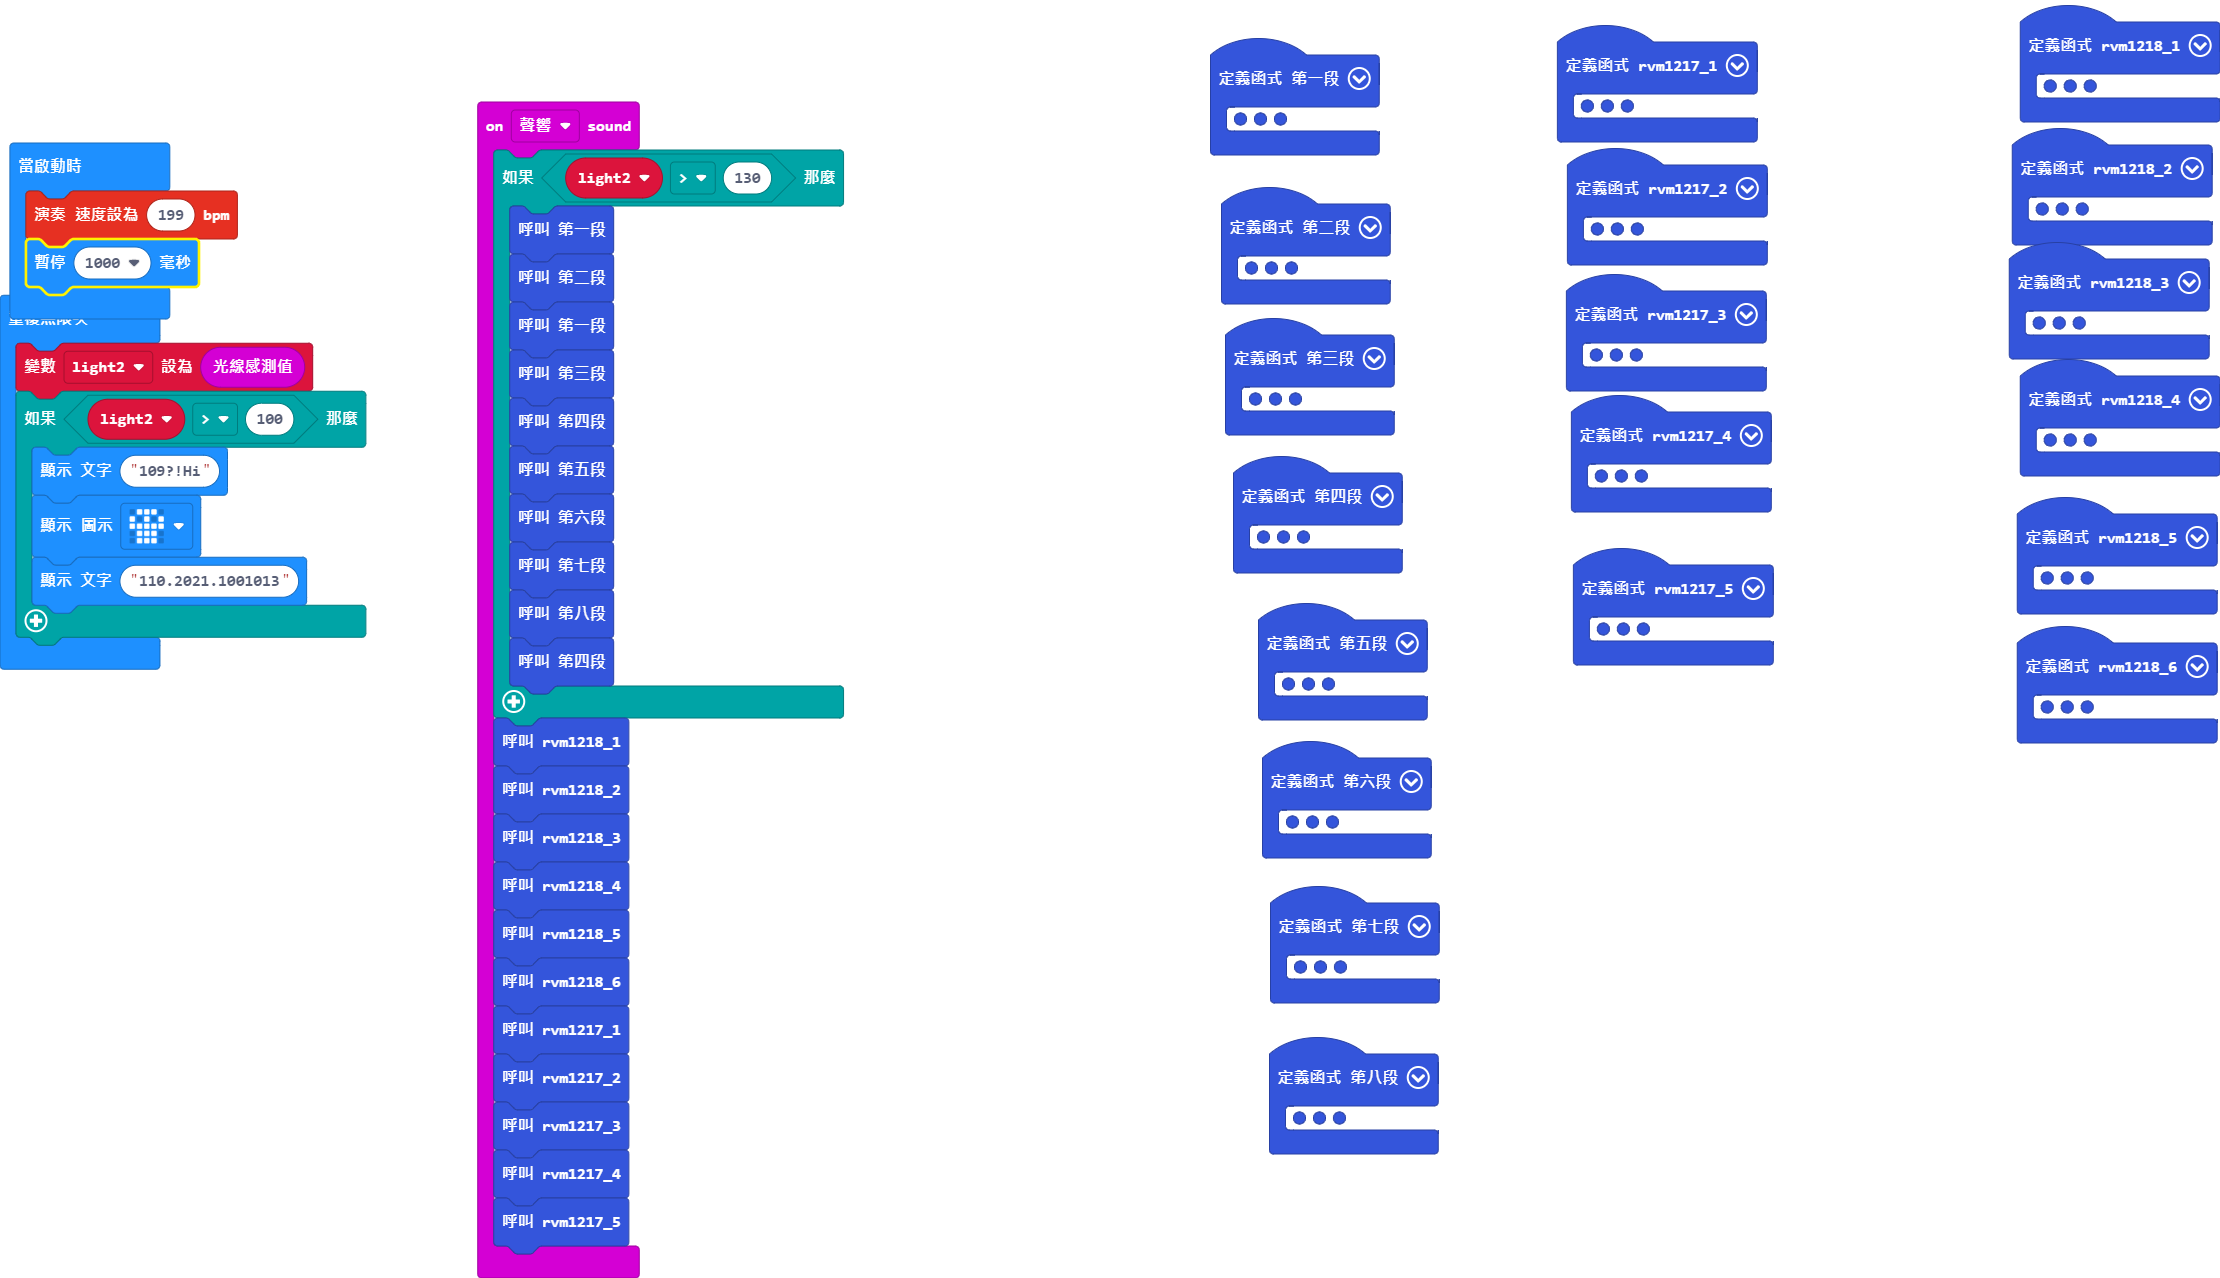
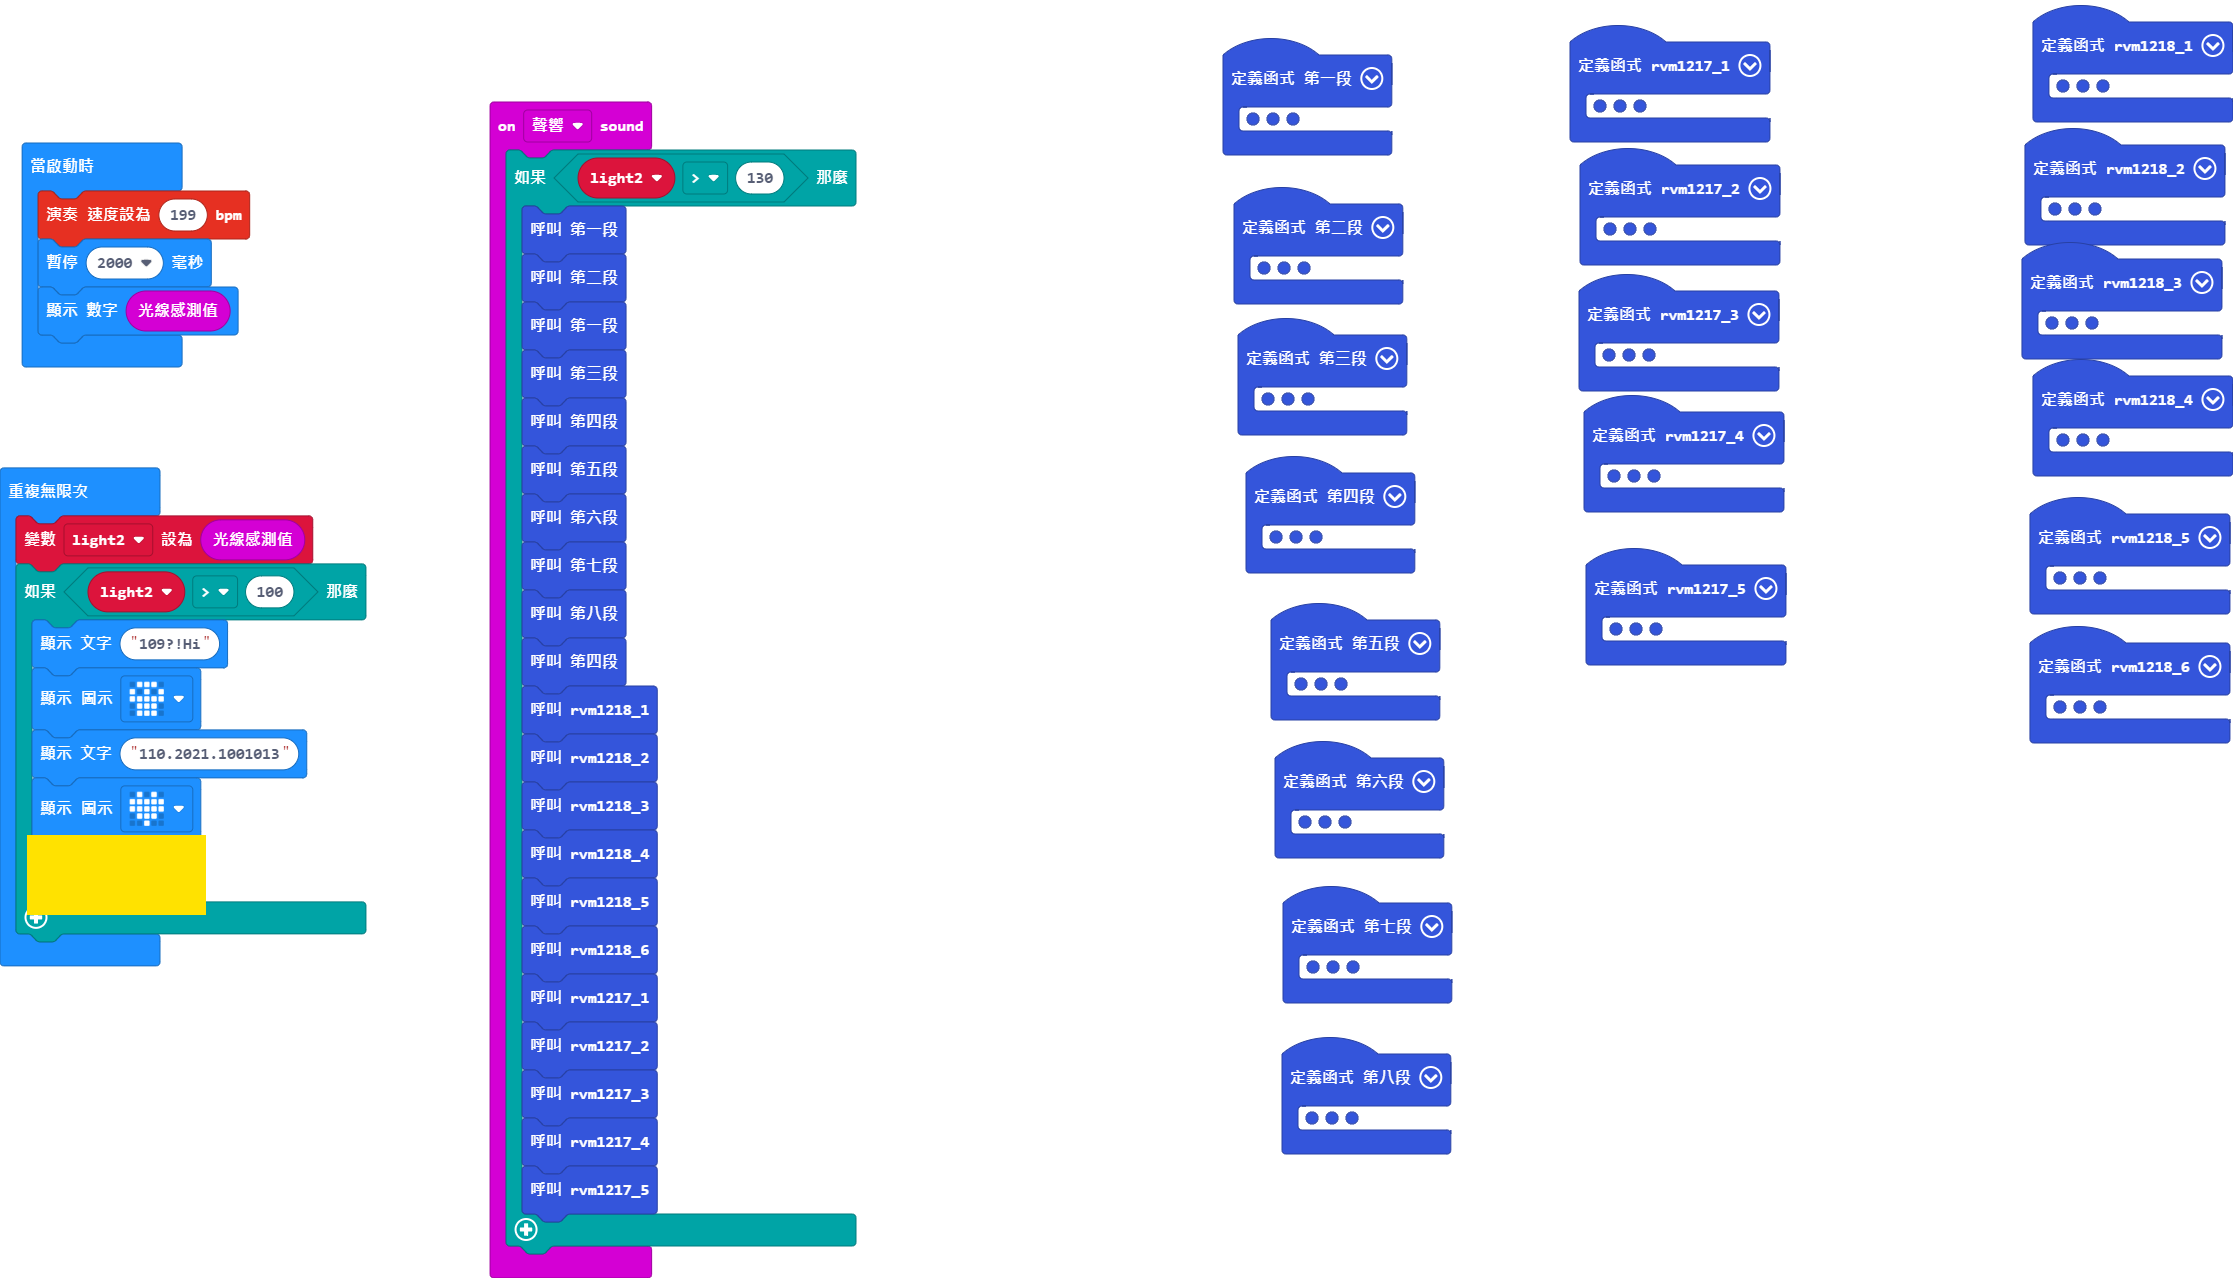
Update main.blocks, main.ts

diff --git a/main.ts b/main.ts
@@ -51,18 +51,18 @@ input.onSound(DetectedSound.Loud, function () {
         第七段()
         第八段()
         第四段()
+        rvm1218_1()
+        rvm1218_2()
+        rvm1218_3()
+        rvm1218_4()
+        rvm1218_5()
+        rvm1218_6()
+        rvm1217_1()
+        rvm1217_2()
+        rvm1217_3()
+        rvm1217_4()
+        rvm1217_5()
     }
-    rvm1218_1()
-    rvm1218_2()
-    rvm1218_3()
-    rvm1218_4()
-    rvm1218_5()
-    rvm1218_6()
-    rvm1217_1()
-    rvm1217_2()
-    rvm1217_3()
-    rvm1217_4()
-    rvm1217_5()
 })
 function rvm1217_4 () {
     music.playTone(392, music.beat(BeatFraction.Whole))
@@ -275,12 +275,15 @@ function 第一段 () {
 }
 let light2 = 0
 music.setTempo(199)
-basic.pause(1000)
+basic.pause(2000)
+basic.showNumber(input.lightLevel())
 basic.forever(function () {
     light2 = input.lightLevel()
     if (light2 > 100) {
         basic.showString("109?!Hi")
         basic.showIcon(IconNames.Skull)
         basic.showString("110.2021.1001013")
+        basic.showIcon(IconNames.Heart)
+        basic.showIcon(IconNames.House)
     }
 })
